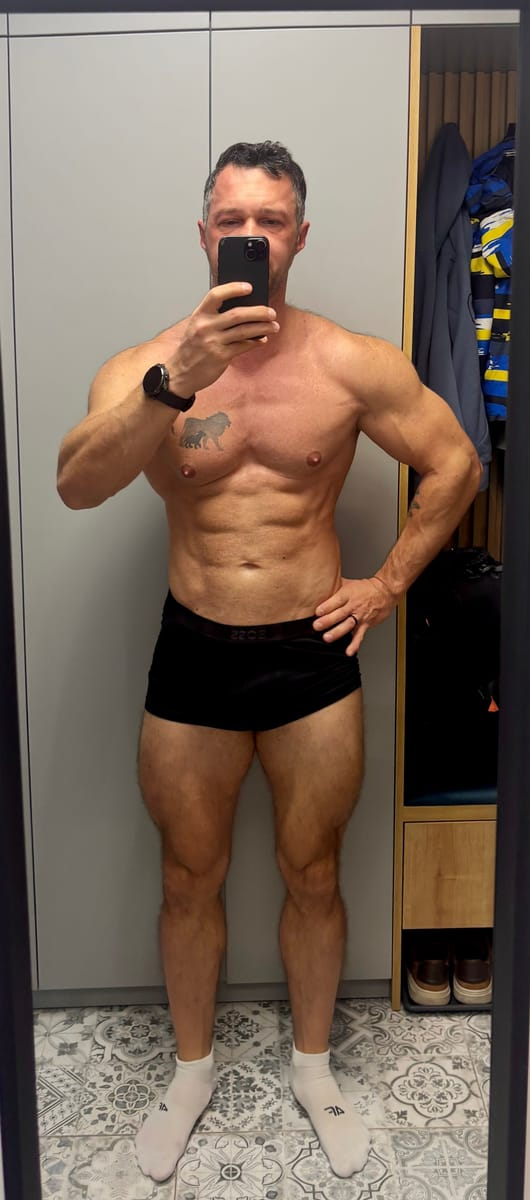
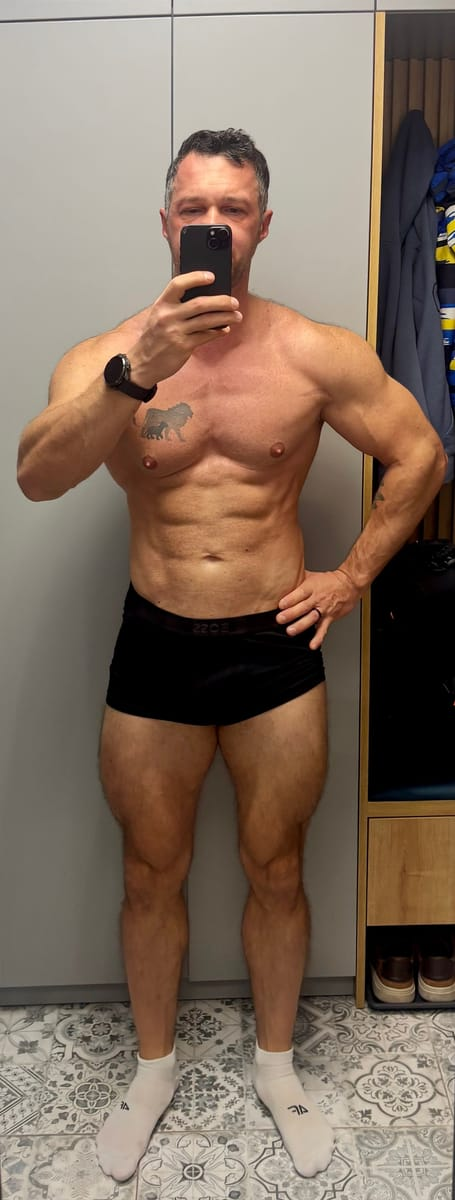
Polish transformations section and page backgrounds
- Remove before/after tags and use a cropped photo for Piotr (41)
- Keep photo size fixed while a column expands, so it no longer zooms
- Subtle scale and fade transition between mobile slides
- Halve the hero video offset under the mobile header
- Lighten the location section so it contrasts with the CTA above

diff --git a/src/app/page.module.css b/src/app/page.module.css
@@ -440,6 +440,7 @@
   display: flex;
   height: clamp(480px, 56vw, 640px);
   list-style: none;
+  container-type: inline-size;
 }
 
 .transformation {
@@ -485,6 +486,21 @@
 .transformationAfter {
   right: 0;
   width: 100%;
+}
+
+/* Zdjęcie ma stałą szerokość – połowę rozwiniętego paska (albo cały pasek
+   w spoczynku, jeśli jest szerszy). Animacja zmienia tylko widoczny
+   wycinek, więc zdjęcie nie powiększa się chwilowo w trakcie rozwijania. */
+.transformationPhoto {
+  position: absolute;
+  top: 0;
+  bottom: 0;
+  left: 50%;
+  width: max(
+    100cqw / var(--count),
+    100cqw * 3.5 / (var(--count) + 2.5) / 2
+  );
+  transform: translateX(-50%);
 }
 
 .transformation img {
@@ -621,6 +637,12 @@
   .transformationsList {
     --t: 0s;
   }
+
+  /* Na telefonie zostaje tylko przygaszenie, bez ruchu */
+  .transformation,
+  .transformationInfo > * {
+    transform: none !important;
+  }
 }
 
 /* Telefon i tablet: slider przewijany palcem */
@@ -645,6 +667,39 @@
     flex: 0 0 min(85%, 440px);
     scroll-snap-align: start;
     cursor: auto;
+    /* Sąsiednie slajdy są lekko mniejsze i przygaszone */
+    opacity: 0.4;
+    transform: scale(0.94);
+    transition:
+      opacity 0.5s ease,
+      transform 0.5s cubic-bezier(0.22, 1, 0.36, 1);
+  }
+
+  .slideCurrent {
+    opacity: 1;
+    transform: none;
+  }
+
+  /* Opis aktualnego slajdu wjeżdża delikatnie od dołu */
+  .transformationInfo > * {
+    opacity: 0;
+    transform: translateY(10px);
+    transition:
+      opacity 0.4s ease,
+      transform 0.4s ease;
+  }
+
+  .slideCurrent .transformationInfo > * {
+    opacity: 1;
+    transform: none;
+  }
+
+  .slideCurrent .transformationInfo > :nth-child(2) {
+    transition-delay: 0.08s;
+  }
+
+  .slideCurrent .transformationInfo > :nth-child(3) {
+    transition-delay: 0.16s;
   }
 
   .transformation + .transformation {
@@ -659,6 +714,12 @@
   .transformationBefore,
   .transformationAfter {
     width: 50%;
+  }
+
+  .transformationPhoto {
+    left: 0;
+    width: 100%;
+    transform: none;
   }
 
   .transformation img {
@@ -839,9 +900,11 @@
 
 .studio {
   --section-pad: clamp(80px, 11vw, 140px);
+  /* Jaśniejsza niż ciemna sekcja „Gotowy na zmianę?” powyżej – tła sekcji
+     przeplatają się: ciemniejsze i jaśniejsze */
   background-image:
-    linear-gradient(90deg, rgba(27, 24, 29, 0.95) 30%, rgba(27, 24, 29, 0.6)),
-    linear-gradient(135deg, #3a2420, var(--bg-3));
+    linear-gradient(90deg, rgba(47, 43, 50, 0.96) 30%, rgba(47, 43, 50, 0.7)),
+    linear-gradient(135deg, #4a2e28, var(--bg-2));
 }
 
 .studioInner {
@@ -1157,14 +1220,20 @@
     background-attachment: scroll;
   }
 
+  /* Film zaczyna się w połowie wysokości paska menu – górna połowa
+     filmu chowa się pod półprzezroczystym paskiem */
+  .hero {
+    --hero-offset: calc(var(--header-h) / 2);
+  }
+
   .heroContent {
-    top: var(--header-h);
+    top: var(--hero-offset);
   }
 
   .heroVideo,
   .heroOverlay {
-    top: var(--header-h);
-    height: calc(100% - var(--header-h));
+    top: var(--hero-offset);
+    height: calc(100% - var(--hero-offset));
   }
 
   .burger {

diff --git a/src/app/Transformations.tsx b/src/app/Transformations.tsx
@@ -1,7 +1,7 @@
 "use client";
 
 import Image from "next/image";
-import { useRef, useState } from "react";
+import { useRef, useState, type CSSProperties } from "react";
 import type { Transformation } from "./data";
 import styles from "./page.module.css";
 
@@ -43,6 +43,7 @@ export default function Transformations({
       <ul
         ref={listRef}
         className={styles.transformationsList}
+        style={{ "--count": items.length } as CSSProperties}
         onMouseLeave={() => setActive(null)}
         onScroll={onScroll}
       >
@@ -55,6 +56,7 @@ export default function Transformations({
               className={cx(
                 styles.transformation,
                 active === i && styles.transformationActive,
+                slide === i && styles.slideCurrent,
               )}
               tabIndex={0}
               onMouseEnter={() => setActive(i)}
@@ -63,22 +65,26 @@ export default function Transformations({
             >
               <div className={styles.transformationMedia}>
                 <div className={styles.transformationBefore}>
-                  <Image
-                    src={item.before.src}
-                    alt={`${item.name} przed współpracą`}
-                    fill
-                    sizes="(max-width: 960px) 45vw, 340px"
-                    style={{ objectPosition: item.before.position }}
-                  />
+                  <span className={styles.transformationPhoto}>
+                    <Image
+                      src={item.before.src}
+                      alt={`${item.name} przed współpracą`}
+                      fill
+                      sizes="(max-width: 960px) 45vw, 340px"
+                      style={{ objectPosition: item.before.position }}
+                    />
+                  </span>
                 </div>
                 <div className={styles.transformationAfter}>
-                  <Image
-                    src={item.after.src}
-                    alt={`${item.name} po ${item.duration} współpracy`}
-                    fill
-                    sizes="(max-width: 960px) 45vw, 340px"
-                    style={{ objectPosition: item.after.position }}
-                  />
+                  <span className={styles.transformationPhoto}>
+                    <Image
+                      src={item.after.src}
+                      alt={`${item.name} po ${item.duration} współpracy`}
+                      fill
+                      sizes="(max-width: 960px) 45vw, 340px"
+                      style={{ objectPosition: item.after.position }}
+                    />
+                  </span>
                 </div>
               </div>
 
